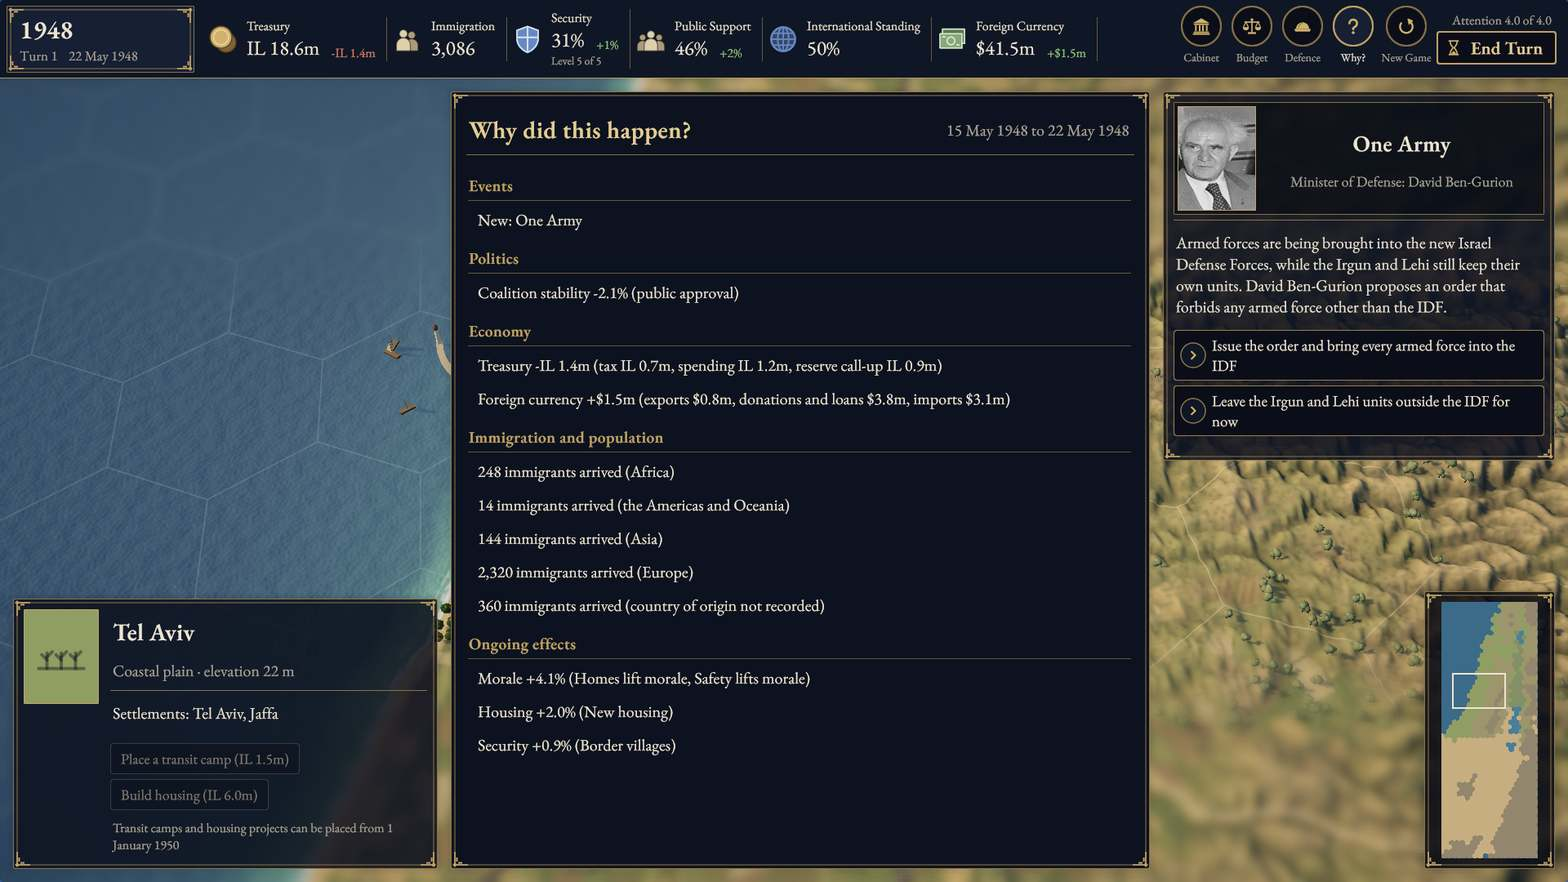
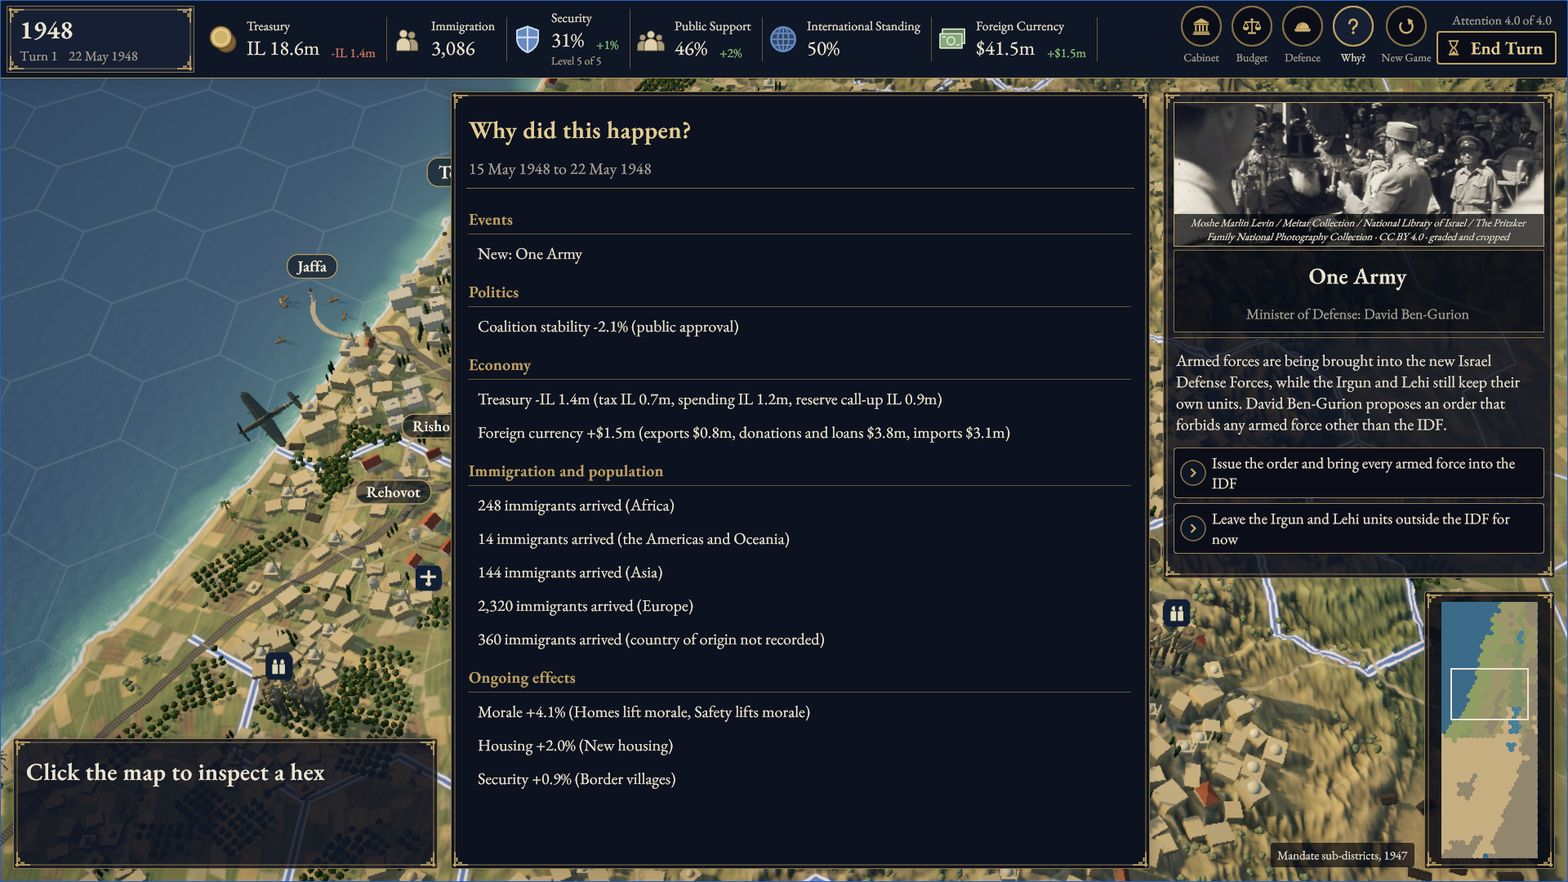
docs(readme): screenshots of today's build and the GDD as the design of record
Five real screenshots from a WebGL build of origin/main (ce83115), taken
2026-10-12 in a headed Chrome over CDP at 1920x1080 and encoded at
1568x882: the map on turn 1 with villages, brigade tokens and the One
Army card with its archival photograph; the start screen; Tel Aviv and
Jaffa close up; the Cabinet; the Why panel. The social preview is
rebuilt from the new map shot (docs/RELEASING.md). #320 is not merged,
so the water pass is the old one.

Text: the design of record is docs/GDD.md, not built yet; what works now
gains the start screen, the 1948 map layers and the unit tokens; the
missing list and roadmap follow the approved build plan; the AI-use and
licence lines name the start screen's AI painting and the archival
event photographs. README.he.md follows. The README tests take the new
grid and read the caption date from the English README.

diff --git a/scripts/oss/tests/test_readme.py b/scripts/oss/tests/test_readme.py
@@ -3,7 +3,8 @@ from pathlib import Path
 
 ROOT = Path(__file__).resolve().parents[3]
 CONCEPT = "docs/images/hero-concept-1936.jpg"
-GRID = ["docs/images/build-m3-map.jpg", "docs/images/build-m3-cabinet.jpg", "docs/images/build-m3-why.jpg"]
+GRID = ["docs/images/build-m3-map.jpg", "docs/images/build-m3-start.jpg", "docs/images/build-m3-city.jpg",
+        "docs/images/build-m3-cabinet.jpg", "docs/images/build-m3-why.jpg"]
 
 
 def read(rel: str) -> str:
@@ -40,10 +41,10 @@ def test_concept_art_opens_what_is_this_captioned_as_concept_art():
     assert "Concept art (AI-generated)" in after and "set in 1936" in after and "not the current build" in after
 
 
-def test_real_dated_screenshots_in_a_one_plus_two_grid():
+def test_real_dated_screenshots_in_a_one_plus_two_plus_two_grid():
     text = read("README.md")
-    assert images(text)[1:4] == GRID
-    for path, width in zip(GRID, ("820", "405", "405")):
+    assert images(text)[1:6] == GRID
+    for path, width in zip(GRID, ("820", "405", "405", "405", "405")):
         assert re.search(rf'<img src="{re.escape(path)}"[^>]*width="{width}"', text), path
     assert re.search(r"Real screenshots from build \d+\.\d+\.\d+ \(M3\), \d{4}-\d{2}-\d{2}\.", text)
 
@@ -103,7 +104,7 @@ def test_hebrew_readme_is_rtl_and_names_english_as_authoritative():
     assert he.lstrip().splitlines()[0].startswith("[English](README.md)")
     assert he.count('<div dir="rtl">') >= 2
     assert he.count("<div") == he.count("</div>")
-    assert "הנוסח האנגלי" in he and images(he)[:3] == GRID and CONCEPT in images(he)
+    assert "הנוסח האנגלי" in he and images(he)[:5] == GRID and CONCEPT in images(he)
 
 
 def test_images_are_web_sized_and_the_original_stays():
@@ -128,7 +129,8 @@ def test_contributing_links_the_issue_filters_and_the_open_issues():
 
 def test_hebrew_readme_keeps_the_english_facts():
     he = read("README.he.md")
-    for fact in ("15 במאי 1948", "M3", "0.1.0", "2026-10-11", "M4", "CC BY-SA 4.0", "CC0", "Firaxis", "2K", "1936",
+    shot_date = re.search(r"Real screenshots from build [^,]+, (\d{4}-\d{2}-\d{2})\.", read("README.md")).group(1)
+    for fact in ("15 במאי 1948", "M3", "0.1.0", shot_date, "M4", "CC BY-SA 4.0", "CC0", "Firaxis", "2K", "1936",
                  "6000.3.25f1", "docs/CONTENT_POLICY.md", "historical_accuracy.yml", "SECURITY.md"):
         assert fact in he, fact
     assert "מסחרית" in he  # a commercial edition is planned
@@ -165,7 +167,7 @@ def test_hebrew_readme_polish_and_alt_text():
     for bad in ("מורשה ב־CC", "מצוטטת עם מקור", "מאסיבי", "שערי סקירה", "בזמן אמת בזמן"):
         assert bad not in he, bad
     alts = re.findall(r'alt="([^"]+)"', he)
-    assert len(alts) == 4 and all(re.search(r"[א-ת]", a) for a in alts)
+    assert len(alts) == 1 + len(GRID) and all(re.search(r"[א-ת]", a) for a in alts)
 
 
 def test_first_open_in_unity_is_in_all_three_files():

diff --git a/README.md b/README.md
@@ -35,15 +35,20 @@ You sit in the prime minister's chair from the founding of the state. Each turn 
 
 A deterministic C# simulation runs underneath. The same choices always give the same result, and a saved game is the seed plus the list of commands. Unity draws a real terrain map of the country built from elevation and climate data.
 
+The game design of record is now [docs/GDD.md](docs/GDD.md) (12 October 2026): monthly turns in which you build and defend Israel from 1948 to 1951 with units, cities and construction, and choose your ministers. The list above is the game you can play today. The new design is not built yet; the [build plan](docs/superpowers/specs/2026-10-12-gdd-v0.1-impact-and-plan.md) brings it in phases.
+
 ## What it looks like today
 
 <p align="center">
-  <img src="docs/images/build-m3-map.jpg" alt="Current build: the coastal plain around Tel Aviv, Jaffa and Ramla with hex lines, settlement models, fields and groves, railways and roads, the top bar and an event card" width="820">
+  <img src="docs/images/build-m3-map.jpg" alt="Current build, 22 May 1948: the coastal plain from Tel Aviv and Jaffa to Jerusalem with towns and villages, groves, railways and roads, brigade tokens and an aircraft, the top bar, and the One Army event card with an archival photograph" width="820">
 </p>
 <p align="center">
-  <img src="docs/images/build-m3-cabinet.jpg" alt="Current build: the Cabinet screen listing the Provisional Government's ministers with portraits" width="405">
+  <img src="docs/images/build-m3-start.jpg" alt="Current build: the start screen, two lines of the Declaration of Independence in Hebrew and English over an AI-generated painting of the 14 May 1948 ceremony" width="405">
+  <img src="docs/images/build-m3-city.jpg" alt="Current build: close-up of Tel Aviv and Jaffa with its harbour, a rifle-trio brigade token, an aircraft, railways and the Mandate sub-district borders" width="405">
+  <br>
+  <img src="docs/images/build-m3-cabinet.jpg" alt="Current build: the Cabinet screen with the Provisional State Council as a half circle of seats and the ministers' portrait cards" width="405">
   <img src="docs/images/build-m3-why.jpg" alt="Current build: the Why panel explaining a turn's changes" width="405">
-  <br><em>Real screenshots from build 0.1.0 (M3), 2026-10-11.</em>
+  <br><em>Real screenshots from build 0.1.0 (M3), 2026-10-12. The start screen's painting is AI-generated.</em>
 </p>
 
 ## Is this any good?
@@ -52,25 +57,29 @@ It is an early, honest prototype.
 
 **What works now (M3, 1948–1951):**
 - Turns from 15 May 1948 to the end of 1951.
+- The start screen.
+- The 1948 map: towns, villages and Bedouin camps, railways and roads, and the 1949 armistice zones and lines from each agreement's date.
+- The 1948 brigades, 101 Squadron and the first navy ships as tokens at their sourced positions. They take no orders yet.
 - The Cabinet with appointments.
 - The Budget screen.
 - The Defence screen with the escalation ladder and reserve call-up.
-- Sourced historical events from the 1948 war through the 1951 foreign-currency crisis.
+- Sourced historical events from the 1948 war through the 1951 foreign-currency crisis, most with an archival photograph.
 - The "Why?" panel.
 - Autosave and load.
 - The browser (WebGL) build.
 
 **What is missing:**
 - The art in the concept image above. Settlements and trees are still placeholder art.
+- Everything new in the [GDD](docs/GDD.md): one month per turn, units you train and command, cities with housing and jobs, construction, combat and the three objectives.
 - Diplomacy.
-- War mode.
 - Anything after 1951.
 - A hosted build you can play with one click.
 
 ## Roadmap
 
 - **Visual v1 (done):** shadows at map scale, a two-band tilt-shift, a stylised terrain shader, a graded sea, a cleaner hex grid and serif labels.
-- **M4:** the full 1948–1956 slice, war mode for 1948 and Suez, the legacy report, a historian review and a hosted browser build.
+- **GDD v0.1 (next):** the [build plan](docs/superpowers/specs/2026-10-12-gdd-v0.1-impact-and-plan.md), in phases: a first slice with one city, training and one new settlement, then monthly turns and the five resources, cities, pioneers and construction, military units and combat, settlement control, and the 48-turn 1948–1951 game.
+- **M4:** a historian review and a hosted browser build.
 - **Art track:** era-correct 3D settlements, vegetation and units, toward the concept image.
 
 ## Play
@@ -125,7 +134,7 @@ You need Unity **6000.3.25f1 (6.3 LTS)** with Web Build Support; the exact versi
 
 This project is built with heavy AI assistance, disclosed here using itch.io's categories:
 - **Code:** written with AI coding agents and reviewed through tests and review gates.
-- **Graphics:** the concept and promo images in `promo/` are AI-generated, and the web page's tab icon was drawn with AI help. The game's terrain comes from real elevation data. The portraits are public-domain or CC0 photographs.
+- **Graphics:** the concept and promo images in `promo/` are AI-generated, as is the start screen's painting, and the web page's tab icon was drawn with AI help. The game's terrain comes from real elevation data. The portraits are public-domain or CC0 photographs, and the event cards use archival photographs.
 - **Text:** event and content text was drafted with AI, and every fact is checked against the cited source.
 - **Sound:** none yet.
 
@@ -137,7 +146,7 @@ Nothing is generated live while you play.
 - **Original art, docs and data:** [CC BY 4.0](LICENSES/CC-BY-4.0.txt).
 - **Game content text** (`content/`, which paraphrases its sources, many from Wikipedia): [CC BY-SA 4.0](LICENSES/CC-BY-SA-4.0.txt).
 - **AI-generated images:** marked [CC0](LICENSES/CC0-1.0.txt), with no rights claimed.
-- **Third-party material:** fonts, public-domain and CC0 portraits and the Unity engine and packages are under their own terms.
+- **Third-party material:** fonts, public-domain and CC0 portraits, the archival event photographs, and the Unity engine and packages are under their own terms.
 
 Details are in [LICENSING.md](LICENSING.md); attributions are in [NOTICE](NOTICE) and [THIRD-PARTY-NOTICES.md](THIRD-PARTY-NOTICES.md), and every image's source is in [ASSETS.yaml](ASSETS.yaml).
 

diff --git a/README.he.md b/README.he.md
@@ -22,7 +22,10 @@ https://github.com/user-attachments/assets/56571db8-446b-444b-8db9-fce57dac53a7
 
 <div align="center">
 
-<img src="docs/images/build-m3-map.jpg" width="820" alt="הגרסה הנוכחית 0.1.0 (M3): מפת השטח עם הסרגל העליון וכרטיס אירוע.">
+<img src="docs/images/build-m3-map.jpg" width="820" alt="הגרסה הנוכחית 0.1.0 (M3): מפת השטח עם עיירות וכפרים, מסילות ויחידות, הסרגל העליון וכרטיס אירוע עם צילום ארכיון.">
+<br>
+<img src="docs/images/build-m3-start.jpg" width="405" alt="הגרסה הנוכחית 0.1.0 (M3): מסך הפתיחה עם שתי שורות ממגילת העצמאות, על רקע ציור שנוצר בבינה מלאכותית.">
+<img src="docs/images/build-m3-city.jpg" width="405" alt="הגרסה הנוכחית 0.1.0 (M3): תקריב של תל אביב ויפו.">
 <br>
 <img src="docs/images/build-m3-cabinet.jpg" width="405" alt="הגרסה הנוכחית 0.1.0 (M3): מסך הקבינט.">
 <img src="docs/images/build-m3-why.jpg" width="405" alt="הגרסה הנוכחית 0.1.0 (M3): לוח 'למה זה קרה?'.">
@@ -31,7 +34,7 @@ https://github.com/user-attachments/assets/56571db8-446b-444b-8db9-fce57dac53a7
 
 <div dir="rtl">
 
-<p align="center"><em>צילומי מסך אמיתיים מגרסה 0.1.0 (M3), 2026-10-11.</em></p>
+<p align="center"><em>צילומי מסך אמיתיים מגרסה 0.1.0 (M3), 2026-10-12. הציור במסך הפתיחה נוצר בבינה מלאכותית.</em></p>
 
 </div>
 
@@ -51,6 +54,8 @@ https://github.com/user-attachments/assets/56571db8-446b-444b-8db9-fce57dac53a7
 ## מה המצב היום?
 
 ***אב־טיפוס מוקדם: אבן הדרך M3 הושלמה, והשנים 1948 עד 1951 ניתנות למשחק כשבונים מקוד המקור.*** עדיין אין גרסה שאפשר לשחק בה בדפדפן בלחיצה אחת; גרסה מתארחת מתוכננת לאבן הדרך M4. הוראות ההרצה המקומית (באנגלית): [<span dir="ltr">BUILDING.md</span>](BUILDING.md). הבנייה דורשת Unity בגרסה 6000.3.25f1.
+
+מסמך התכנון המחייב הוא עכשיו [<span dir="ltr">docs/GDD.md</span>](docs/GDD.md) (12 באוקטובר 2026, באנגלית): תורות של חודש, שבהם בונים ומגינים על ישראל בשנים 1948 עד 1951 בעזרת יחידות, ערים ובנייה, ובוחרים שרים. המשחק שאפשר לשחק היום הוא המשחק שמתואר למעלה. התכנון החדש עוד לא נבנה, ו[תוכנית הבנייה](docs/superpowers/specs/2026-10-12-gdd-v0.1-impact-and-plan.md) מכניסה אותו בשלבים.
 
 ## פתיחה ראשונה ב־Unity
 
@@ -95,7 +100,7 @@ https://github.com/user-attachments/assets/56571db8-446b-444b-8db9-fce57dac53a7
 
 ## שימוש בבינה מלאכותית
 
-הפרויקט נבנה בסיוע נרחב של בינה מלאכותית. קוד נכתב עם סוכני קוד ונבדק בבדיקות ובסקירות קוד; תמונות הקונספט והפרומו הן תוצר של בינה מלאכותית, סמל הלשונית של דף המשחק צויר בסיועה, וטקסט האירועים נוסח בסיועה וכל עובדה בו נבדקת מול המקור המצוטט. הפורטרטים הם צילומים בנחלת הכלל או ברישיון CC0, ואין עדיין סאונד. דבר אינו נוצר בזמן אמת במהלך המשחק.
+הפרויקט נבנה בסיוע נרחב של בינה מלאכותית. קוד נכתב עם סוכני קוד ונבדק בבדיקות ובסקירות קוד; תמונות הקונספט והפרומו הן תוצר של בינה מלאכותית, וכך גם הציור במסך הפתיחה, סמל הלשונית של דף המשחק צויר בסיועה, וטקסט האירועים נוסח בסיועה וכל עובדה בו נבדקת מול המקור המצוטט. הפורטרטים הם צילומים בנחלת הכלל או ברישיון CC0, בכרטיסי האירועים יש צילומי ארכיון, ואין עדיין סאונד. דבר אינו נוצר בזמן אמת במהלך המשחק.
 
 ## רישיון
 

diff --git a/docs/RELEASING.md b/docs/RELEASING.md
@@ -51,7 +51,7 @@ The README's screenshots are claims about the current build. Re-take them whenev
 1. Build the web player (`docs/dev-setup.md`) and serve it. After visual-v1 has merged, capture with its
    `uv run tools/web_check.py <build> --shots …` under its machine lock, so the capture does not disturb profiling.
    Before that, capture by hand at 1640×920 in Chrome.
-2. Replace `docs/images/build-m3-map.jpg`, `build-m3-cabinet.jpg` and `build-m3-why.jpg` (or add `build-<milestone>-*`
+2. Replace `docs/images/build-m3-map.jpg`, `build-m3-start.jpg`, `build-m3-city.jpg`, `build-m3-cabinet.jpg` and `build-m3-why.jpg` (or add `build-<milestone>-*`
    and update the README to the new names). Each must show a non-sensitive moment: no unreviewed sensitive event card.
 3. Update the visible caption "Real screenshots from build X.Y.Z (Mn), YYYY-MM-DD." in `README.md`, and the
    "Is this any good?" and "Roadmap" text the change made stale.
